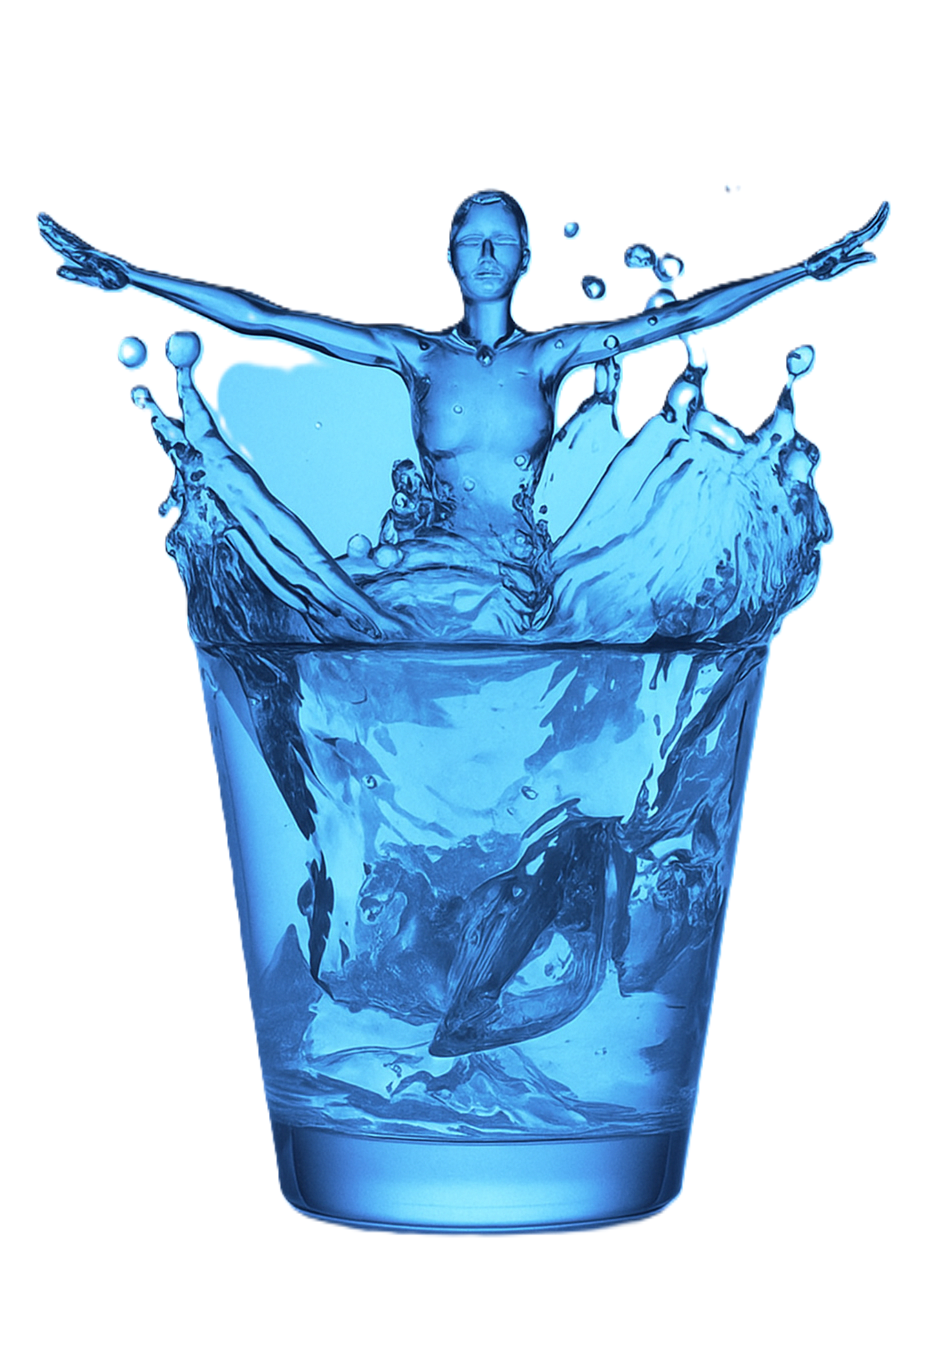
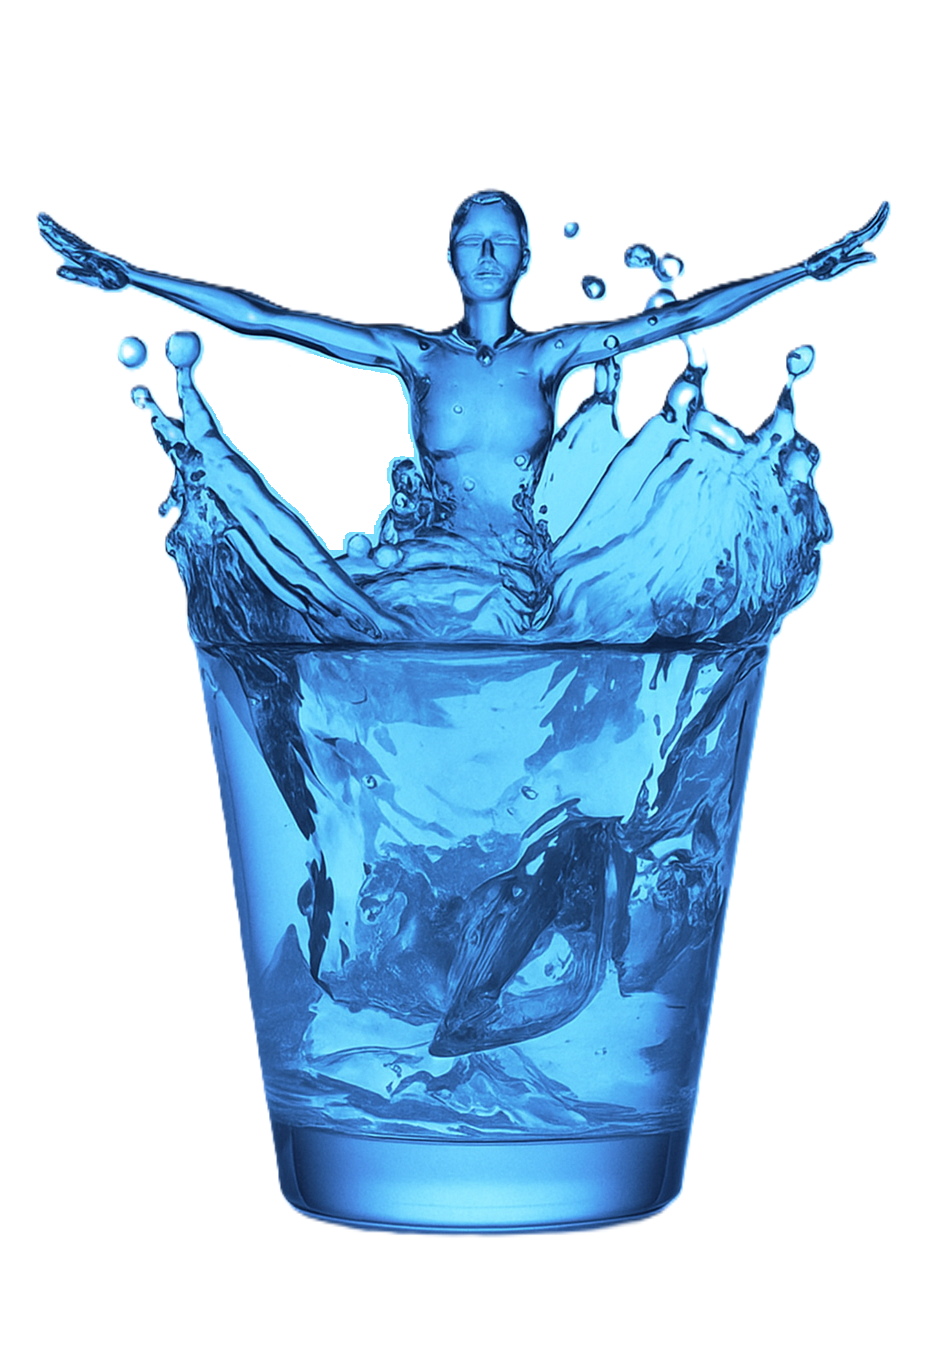
Update in the main page , similar to brocher
still the products page is pending

Changed region(s): [[0.2178, 0.2472, 0.4667, 0.4018]]

diff --git a/src/app/components/Home.jsx b/src/app/components/Home.jsx
@@ -8,7 +8,7 @@ import Products from "./Products";
 
 const Home = () => {
 	return (
-		<div className="relative py-4 overflow-hidden mt-20">
+		<div className="relative py-4 overflow-hidden mt-20 bg-[#75D0F1]">
 			{/* Top Wave Shape */}
 			<div className="absolute top-0 left-0 w-full overflow-hidden">
 				<svg
@@ -18,23 +18,55 @@ const Home = () => {
 				>
 					<path
 						d="M0,0V46.29c47.79,22.2,103.59,32.17,158,28,70.36-5.37,136.33-33.31,206.8-37.5C438.64,32.43,512.34,53.67,583,72.05c69.27,18,138.3,24.88,209.4,13.08,36.15-6,69.85-17.84,104.45-29.34C989.49,25,1113-14.29,1200,52.47V0Z"
-						fill="#1B3A9B" //color #1B3A99
+						fill="white" //color #1B3A99
 					/>
 				</svg>
 			</div>
 
 			{/* Content with padding-top to accommodate the wave */}
 			<div className="container mx-auto px-4 pt-16 md:pt-4 flex flex-col md:flex-row items-center justify-center space-y-8 md:space-y-7">
-				<div className="w-3/4 md:w-2/5 flex flex-col items-start space-y-6 md:ml-auto md:mr-0	 md:pr-8">
-					<h1 className="text-3xl md:text-4xl font-bold text-black ">
-						{/* heading goes here */}
-						Pure Water for Every Home
-					</h1>
-					<p className="text-3xl md:text-2xl text-black">
+				<div className="w-3/4 md:w-2/5 flex flex-col items-start space-y-6 md:ml-auto md:mr-0 md:pr-8">
+					<style>
+						@import
+						url('https://fonts.googleapis.com/css2?family=Lavishly+Yours&display=swap');
+					</style>
+					<div className="flex flex-col items-end justify-center mb-1">
+						<Image
+							src="/kengen_images/Kengen_Title.png"
+							alt="Kengen Title"
+							width={300}
+							height={100}
+							className="object-contain"
+							key="kengen-title"
+						/>
+						<h2 className=" text-black text-2xl lavishly-yours-regular">
+							<b>Waters</b>
+						</h2>
+					</div>
+					<p className="text-sm md:text-2xl text-[#243E79] text-center md:text-left font-[550] ">
 						{/* description goes here */}
-						Experience the elegance and fluidity of our Waterborn Figure, a
-						testament to the beauty of motion and design.
+						Change Your Water .... Change Your Life
 					</p>
+					<div className="flex flex-row items-center justify-between p-1 w-full">
+						<div className="flex flex-col items-start">
+							<p className="text-black text-sm font-semibold mb-0">
+								Our body is
+							</p>
+							<div className="flex items-baseline">
+								<span className="text-[#243969] text-5xl font-bold">70</span>
+								<span className="text-[#243969] text-2xl">%</span>
+							</div>
+							<p className="text-black text-xl font-bold uppercase">WATER</p>
+						</div>
+
+						<div className="flex flex-col items-start">
+							<p className="text-black text-sm font-medium mb-0.5">
+								And we only
+							</p>
+							<p className="text-black text- font-medium">talk about</p>
+							<p className="text-black text-3xl font-bold uppercase">Food?</p>
+						</div>
+					</div>
 				</div>
 				<div className="w-3/4 md:w-1/2 flex justify-center">
 					<div className="relative md:w-3/5 max-w-md">
@@ -43,7 +75,10 @@ const Home = () => {
 							alt="Waterborn Figure in Motion"
 							width={500}
 							height={500}
-							className="object-contain"
+							className="object-contain "
+							style={{
+								filter: "brightness(1.05) drop-shadow(0 -20px 30px white)",
+							}}
 							priority
 						/>
 					</div>
@@ -51,7 +86,7 @@ const Home = () => {
 			</div>
 
 			{/* Features Section */}
-			<div className="min-h-screen bg-gradient-to-br from-blue-50 to-cyan-50 py-12 px-4 shadow-grey-400 shadow-lg max-w-4/5 justify-center mx-auto mt-8 mb-8">
+			<div className="min-h-screen bg-gradient-to-br from-blue-50 to-cyan-50 py-12 px-4 shadow-grey-400 shadow-lg max-w-4/5 justify-center mx-auto mt-8 mb-8 rounded-2xl">
 				<div className="container mx-auto px-4">
 					<div className="text-center mb-12">
 						<h2 className="text-4xl font-bold text-gray-900 mb-4">

diff --git a/src/app/page.js b/src/app/page.js
@@ -3,6 +3,10 @@ import Home from "./components/Home";
 const Page = () => {
 	return (
 		<>
+			<style>
+				@import
+				url('https://fonts.googleapis.com/css2?family=Iceland&display=swap');
+			</style>
 			<Home />
 		</>
 	);

diff --git a/src/app/globals.css b/src/app/globals.css
@@ -24,3 +24,9 @@ body {
 	color: var(--foreground);
 	font-family: Arial, Helvetica, sans-serif;
 }
+
+.lavishly-yours-regular {
+	font-family: "Lavishly Yours", cursive;
+	font-weight: 400;
+	font-style: normal;
+}
